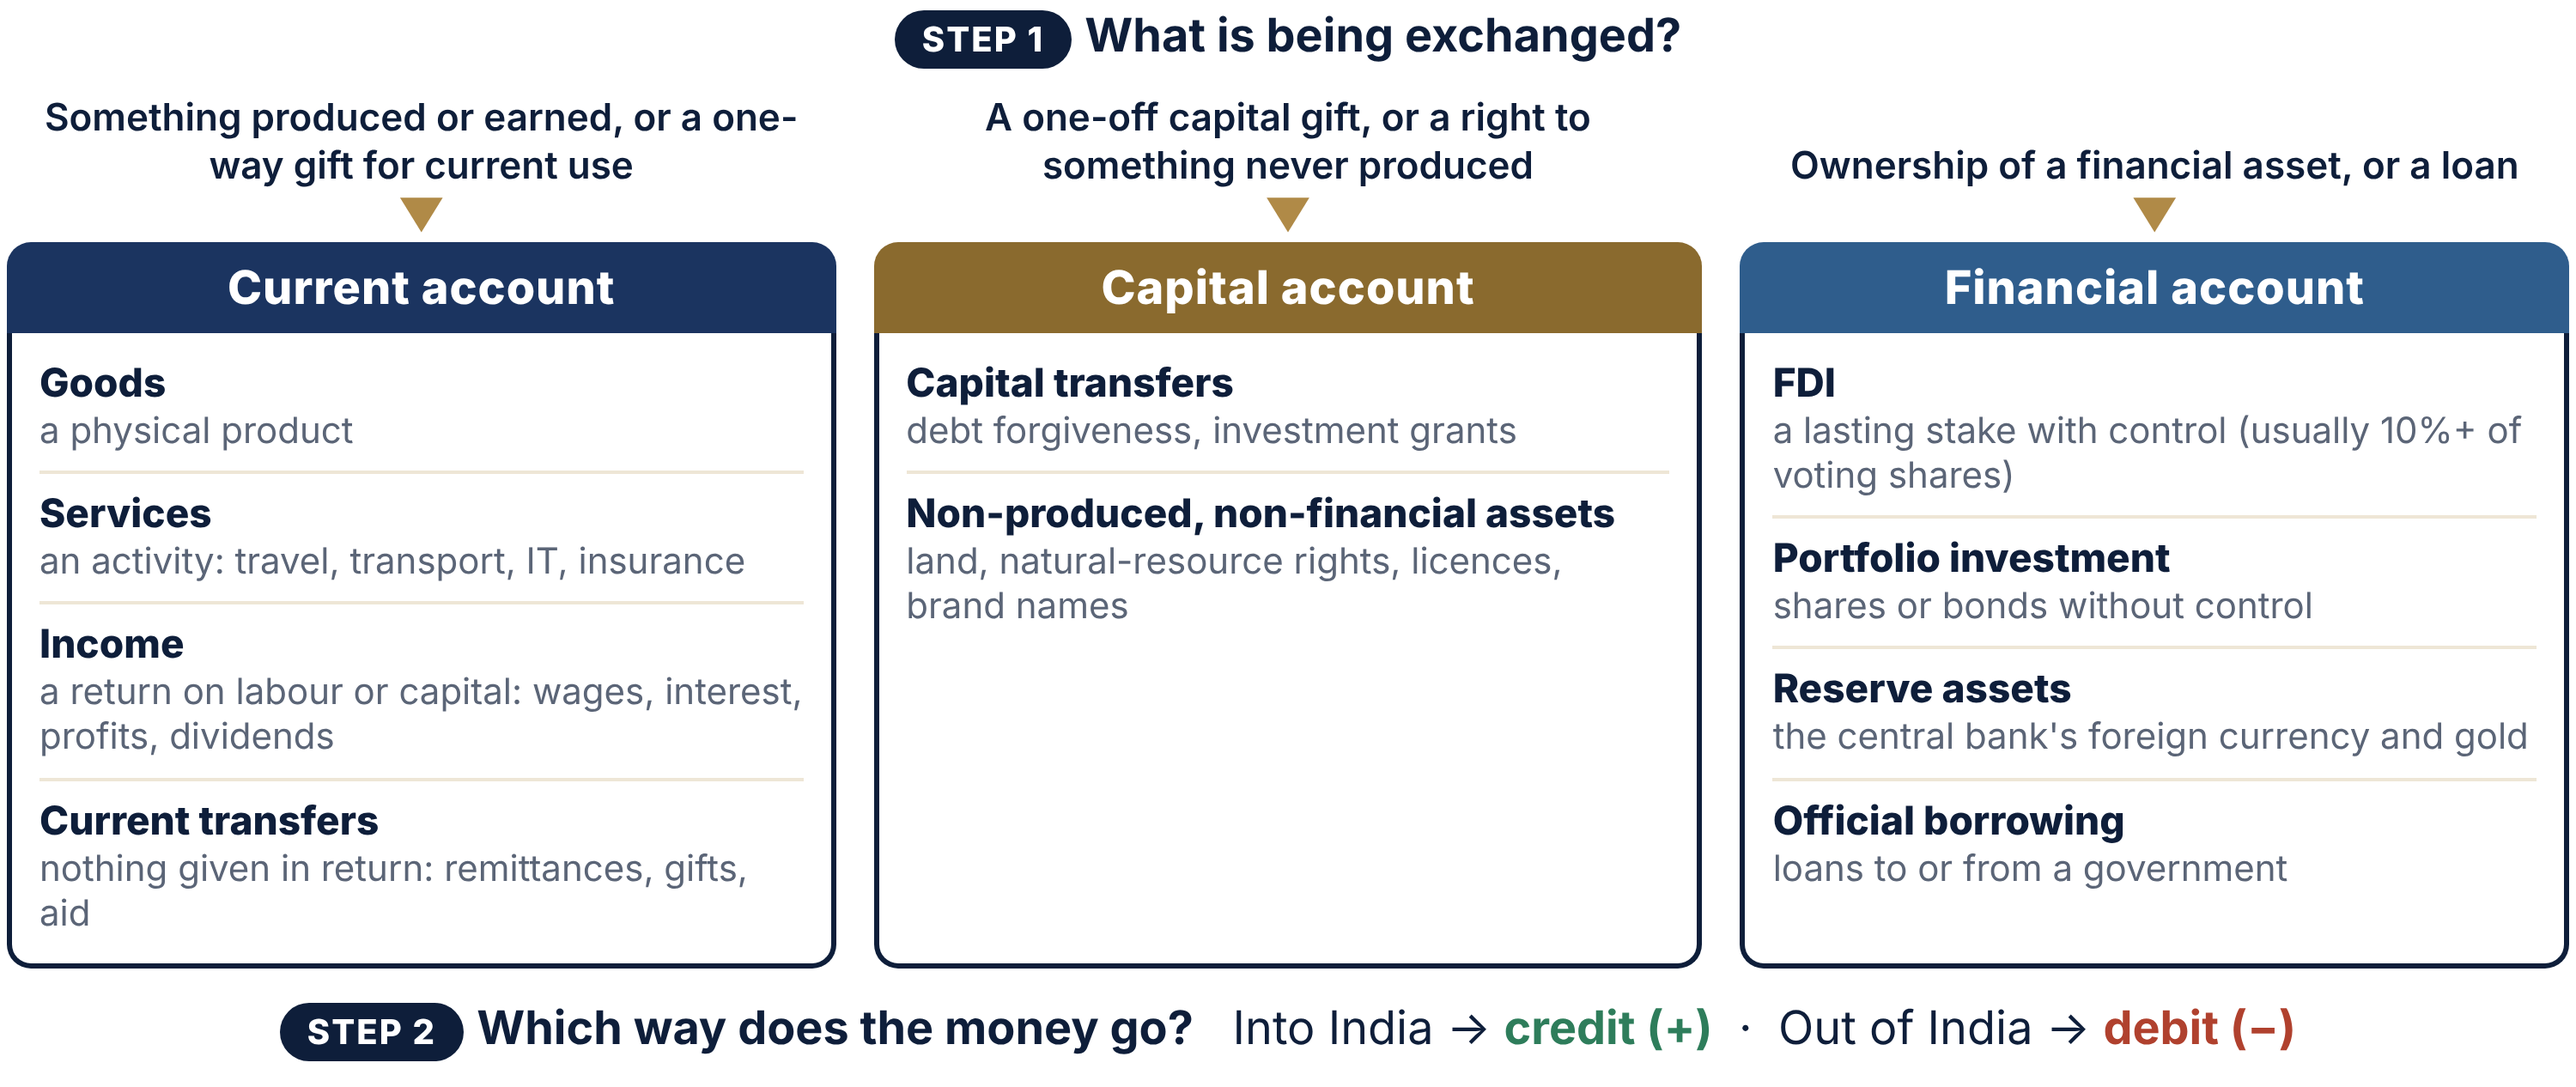
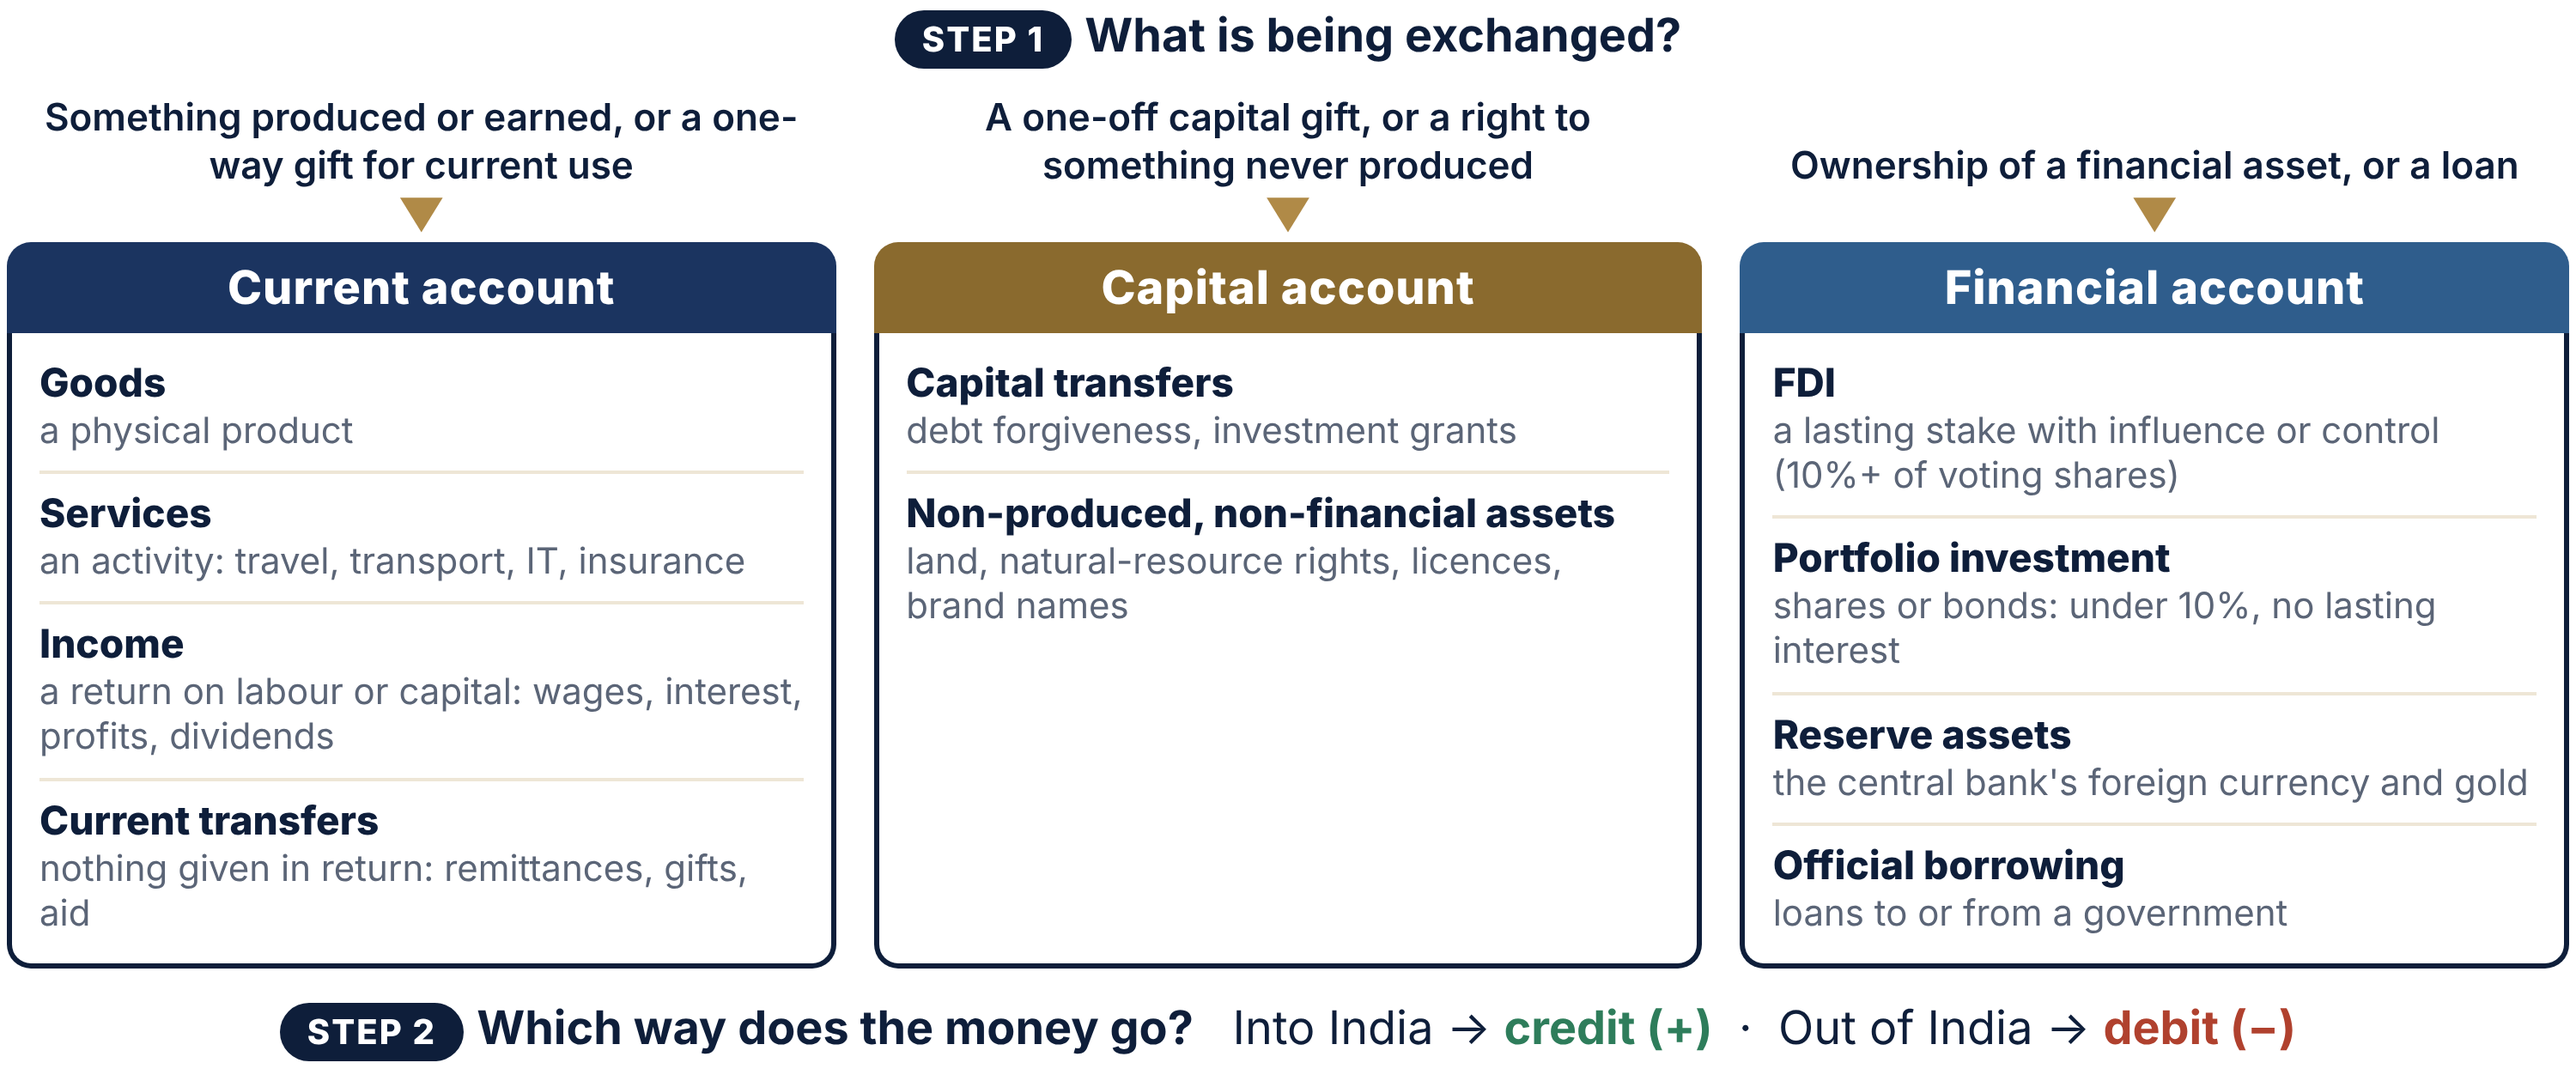
Refine FDI wording and Marshall-Lerner caption in BoP infographics
Claude-Session: https://claude.ai/code/session_01MSjoDEi4PQwuBrycntYQFe

Changed region(s): [[0.682, 0.5237, 0.992, 0.8626], [0.806, 0.3697, 0.961, 0.4313], [0.682, 0.4313, 0.837, 0.4621]]

diff --git a/presentation-assets/balance-of-payments/source/BoP_05_Classify_Tree.html b/presentation-assets/balance-of-payments/source/BoP_05_Classify_Tree.html
@@ -26,6 +26,6 @@ body{width:1500px;height:860px}
 .cn{font-weight:800;font-size:23px}.cr{font-size:21px;color:#5B6577;line-height:1.25;margin-top:2px}
 </style></head><body>
 <div class="step1"><span class="pill bg-ink">STEP 1</span> <b>What is being exchanged?</b></div>
-<div class="cols"><div class="col"><div class="q xs">Something produced or earned, or a one-way gift for current use</div><div class="down arrow">▼</div><div class="acc bg-cur">Current account</div><div class="comps b-cur"><div class="comp"><div class="cn">Goods</div><div class="cr">a physical product</div></div><div class="comp"><div class="cn">Services</div><div class="cr">an activity: travel, transport, IT, insurance</div></div><div class="comp"><div class="cn">Income</div><div class="cr">a return on labour or capital: wages, interest, profits, dividends</div></div><div class="comp"><div class="cn">Current transfers</div><div class="cr">nothing given in return: remittances, gifts, aid</div></div></div></div><div class="col"><div class="q xs">A one-off capital gift, or a right to something never produced</div><div class="down arrow">▼</div><div class="acc bg-cap">Capital account</div><div class="comps b-cap"><div class="comp"><div class="cn">Capital transfers</div><div class="cr">debt forgiveness, investment grants</div></div><div class="comp"><div class="cn">Non-produced, non-financial assets</div><div class="cr">land, natural-resource rights, licences, brand names</div></div></div></div><div class="col"><div class="q xs">Ownership of a financial asset, or a loan</div><div class="down arrow">▼</div><div class="acc bg-fin">Financial account</div><div class="comps b-fin"><div class="comp"><div class="cn">FDI</div><div class="cr">a lasting stake with control (usually 10%+ of voting shares)</div></div><div class="comp"><div class="cn">Portfolio investment</div><div class="cr">shares or bonds without control</div></div><div class="comp"><div class="cn">Reserve assets</div><div class="cr">the central bank's foreign currency and gold</div></div><div class="comp"><div class="cn">Official borrowing</div><div class="cr">loans to or from a government</div></div></div></div></div>
+<div class="cols"><div class="col"><div class="q xs">Something produced or earned, or a one-way gift for current use</div><div class="down arrow">▼</div><div class="acc bg-cur">Current account</div><div class="comps b-cur"><div class="comp"><div class="cn">Goods</div><div class="cr">a physical product</div></div><div class="comp"><div class="cn">Services</div><div class="cr">an activity: travel, transport, IT, insurance</div></div><div class="comp"><div class="cn">Income</div><div class="cr">a return on labour or capital: wages, interest, profits, dividends</div></div><div class="comp"><div class="cn">Current transfers</div><div class="cr">nothing given in return: remittances, gifts, aid</div></div></div></div><div class="col"><div class="q xs">A one-off capital gift, or a right to something never produced</div><div class="down arrow">▼</div><div class="acc bg-cap">Capital account</div><div class="comps b-cap"><div class="comp"><div class="cn">Capital transfers</div><div class="cr">debt forgiveness, investment grants</div></div><div class="comp"><div class="cn">Non-produced, non-financial assets</div><div class="cr">land, natural-resource rights, licences, brand names</div></div></div></div><div class="col"><div class="q xs">Ownership of a financial asset, or a loan</div><div class="down arrow">▼</div><div class="acc bg-fin">Financial account</div><div class="comps b-fin"><div class="comp"><div class="cn">FDI</div><div class="cr">a lasting stake with influence or control (10%+ of voting shares)</div></div><div class="comp"><div class="cn">Portfolio investment</div><div class="cr">shares or bonds: under 10%, no lasting interest</div></div><div class="comp"><div class="cn">Reserve assets</div><div class="cr">the central bank's foreign currency and gold</div></div><div class="comp"><div class="cn">Official borrowing</div><div class="cr">loans to or from a government</div></div></div></div></div>
 <div class="step2"><span class="pill bg-ink">STEP 2</span> <b>Which way does the money go?</b> &nbsp; Into India → <b class="app">credit (+)</b> &nbsp;·&nbsp; Out of India → <b class="dep">debit (−)</b></div>
 </body></html>

diff --git a/presentation-assets/balance-of-payments/source/BoP_06_Architecture.html b/presentation-assets/balance-of-payments/source/BoP_06_Architecture.html
@@ -32,7 +32,7 @@ body{width:1500px;height:820px}
 <div class="cols">
 <div class="acol b-cur"><div class="ah bg-cur"><div class="an">Current account</div><div class="aw">trade and income flows</div></div><div class="sz">Usually the largest account</div><div class="row"><div class="rn">Trade in goods</div><div class="re">merchandise exports and imports</div></div><div class="row"><div class="rn">Trade in services</div><div class="re">IT, travel, transport, insurance</div></div><div class="row"><div class="rn">Income</div><div class="re">wages, interest, profits, dividends</div></div><div class="row"><div class="rn">Current transfers</div><div class="re">remittances, aid, gifts</div></div></div>
 <div class="acol b-cap"><div class="ah bg-cap"><div class="an">Capital account</div><div class="aw">capital transfers and non-produced assets</div></div><div class="sz">Usually very small</div><div class="row"><div class="rn">Capital transfers</div><div class="re">debt forgiveness, investment grants</div></div><div class="row"><div class="rn">Non-produced, non-financial assets</div><div class="re">embassy land, resource rights, licences, brands</div></div></div>
-<div class="acol b-fin"><div class="ah bg-fin"><div class="an">Financial account</div><div class="aw">changes in who owns assets</div></div><div class="sz">Can be large and volatile</div><div class="row"><div class="rn">Foreign direct investment</div><div class="re">lasting stakes with control</div></div><div class="row"><div class="rn">Portfolio investment</div><div class="re">shares and bonds</div></div><div class="row"><div class="rn">Reserve assets</div><div class="re">central bank's foreign currency and gold</div></div><div class="row"><div class="rn">Official borrowing</div><div class="re">government loans from or to abroad</div></div></div>
+<div class="acol b-fin"><div class="ah bg-fin"><div class="an">Financial account</div><div class="aw">changes in who owns assets</div></div><div class="sz">Can be large and volatile</div><div class="row"><div class="rn">Foreign direct investment</div><div class="re">lasting stakes with influence or control</div></div><div class="row"><div class="rn">Portfolio investment</div><div class="re">shares and bonds</div></div><div class="row"><div class="rn">Reserve assets</div><div class="re">central bank's foreign currency and gold</div></div><div class="row"><div class="rn">Official borrowing</div><div class="re">government loans from or to abroad</div></div></div>
 </div>
 <div class="eo">+ <b>Errors and omissions</b>: a balancing item &nbsp;·&nbsp; <b>Current + Capital + Financial + Errors and omissions = 0</b></div>
 </body></html>

diff --git a/presentation-assets/balance-of-payments/source/BoP_33_Marshall_Lerner.html b/presentation-assets/balance-of-payments/source/BoP_33_Marshall_Lerner.html
@@ -25,7 +25,7 @@ body{width:1500px;height:640px}
 .wkx{margin-top:2px}
 .res{margin-top:18px;color:#fff;border-radius:12px;padding:12px 16px;font-size:25px;font-weight:800;text-align:center}
 </style></head><body>
-<div class="hdr xs"><b>Illustrative:</b> the ₹ depreciates by 10%. Trade starts balanced: exports ₹100, imports ₹100. Export prices in ₹ and import prices in US$ do not change. Grey bar = before, coloured bar = after.</div>
+<div class="hdr xs"><b>Illustrative, small-change approximation:</b> after a 10% depreciation, exports cost about 10% less abroad and imports about 10% more in ₹. Trade starts balanced at ₹100 each. Grey bar = before, coloured bar = after.</div>
 <div class="pns">
 <div class="pn" style="border-color:#2E7D5B"><div class="pt" style="color:#2E7D5B">Elastic: 0.8 + 0.6 = 1.4 > 1</div><div class="ps xs">|PEDx| = 0.8, |PEDm| = 0.6</div><div class="br"><div class="bl">Export revenue</div><div class="track"><div class="b0" style="width:89.3%"></div><span class="v0">₹100</span></div><div class="track"><div class="b1" style="width:96.4%;background:#1B3460"></div><span class="v1">₹108.0</span></div><div class="wkx xs muted">volume +8%, ₹ price unchanged</div></div><div class="br"><div class="bl">Import spending</div><div class="track"><div class="b0" style="width:89.3%"></div><span class="v0">₹100</span></div><div class="track"><div class="b1" style="width:92.3%;background:#8A6A2E"></div><span class="v1">₹103.4</span></div><div class="wkx xs muted">₹ price +10%, volume −6%: 100 × 1.10 × 0.94</div></div><div class="res" style="background:#2E7D5B">Balance of trade: 0 → +4.6 &nbsp;improves</div></div>
 <div class="pn" style="border-color:#B0412E"><div class="pt" style="color:#B0412E">Inelastic: 0.3 + 0.4 = 0.7 < 1</div><div class="ps xs">|PEDx| = 0.3, |PEDm| = 0.4</div><div class="br"><div class="bl">Export revenue</div><div class="track"><div class="b0" style="width:89.3%"></div><span class="v0">₹100</span></div><div class="track"><div class="b1" style="width:92.0%;background:#1B3460"></div><span class="v1">₹103.0</span></div><div class="wkx xs muted">volume +3%, ₹ price unchanged</div></div><div class="br"><div class="bl">Import spending</div><div class="track"><div class="b0" style="width:89.3%"></div><span class="v0">₹100</span></div><div class="track"><div class="b1" style="width:94.3%;background:#8A6A2E"></div><span class="v1">₹105.6</span></div><div class="wkx xs muted">₹ price +10%, volume −4%: 100 × 1.10 × 0.96</div></div><div class="res" style="background:#B0412E">Balance of trade: 0 → −2.6 &nbsp;worsens</div></div>

diff --git a/presentation-assets/balance-of-payments/source/build_bop_html.py b/presentation-assets/balance-of-payments/source/build_bop_html.py
@@ -109,8 +109,8 @@ branches = [
      [comp("Capital transfers", "debt forgiveness, investment grants"),
       comp("Non-produced, non-financial assets", "land, natural-resource rights, licences, brand names")]),
     ("fin", "Financial account", "Ownership of a financial asset, or a loan",
-     [comp("FDI", "a lasting stake with control (usually 10%+ of voting shares)"),
-      comp("Portfolio investment", "shares or bonds without control"),
+     [comp("FDI", "a lasting stake with influence or control (10%+ of voting shares)"),
+      comp("Portfolio investment", "shares or bonds: under 10%, no lasting interest"),
       comp("Reserve assets", "the central bank's foreign currency and gold"),
       comp("Official borrowing", "loans to or from a government")]),
 ]
@@ -153,7 +153,7 @@ body = f"""
          [("Capital transfers", "debt forgiveness, investment grants"),
           ("Non-produced, non-financial assets", "embassy land, resource rights, licences, brands")])}
 {acc_col("fin", "Financial account", "changes in who owns assets", "Can be large and volatile",
-         [("Foreign direct investment", "lasting stakes with control"), ("Portfolio investment", "shares and bonds"),
+         [("Foreign direct investment", "lasting stakes with influence or control"), ("Portfolio investment", "shares and bonds"),
           ("Reserve assets", "central bank's foreign currency and gold"), ("Official borrowing", "government loans from or to abroad")])}
 </div>
 <div class="eo">+ <b>Errors and omissions</b>: a balancing item &nbsp;·&nbsp; <b>Current + Capital + Financial + Errors and omissions = 0</b></div>
@@ -324,7 +324,7 @@ x1, m1 = 100 * (1 + 0.08), 100 * 1.10 * (1 - 0.06)
 x2, m2 = 100 * (1 + 0.03), 100 * 1.10 * (1 - 0.04)
 assert round(x1 - m1, 1) == 4.6 and round(x2 - m2, 1) == -2.6
 body = f"""
-<div class="hdr xs"><b>Illustrative:</b> the ₹ depreciates by 10%. Trade starts balanced: exports ₹100, imports ₹100. Export prices in ₹ and import prices in US$ do not change. Grey bar = before, coloured bar = after.</div>
+<div class="hdr xs"><b>Illustrative, small-change approximation:</b> after a 10% depreciation, exports cost about 10% less abroad and imports about 10% more in ₹. Trade starts balanced at ₹100 each. Grey bar = before, coloured bar = after.</div>
 <div class="pns">
 {panel("Elastic: 0.8 + 0.6 = 1.4 > 1", "|PEDx| = 0.8, |PEDm| = 0.6", x1, m1, x1 - m1, True, 0.8, 0.6)}
 {panel("Inelastic: 0.3 + 0.4 = 0.7 < 1", "|PEDx| = 0.3, |PEDm| = 0.4", x2, m2, x2 - m2, False, 0.3, 0.4)}
